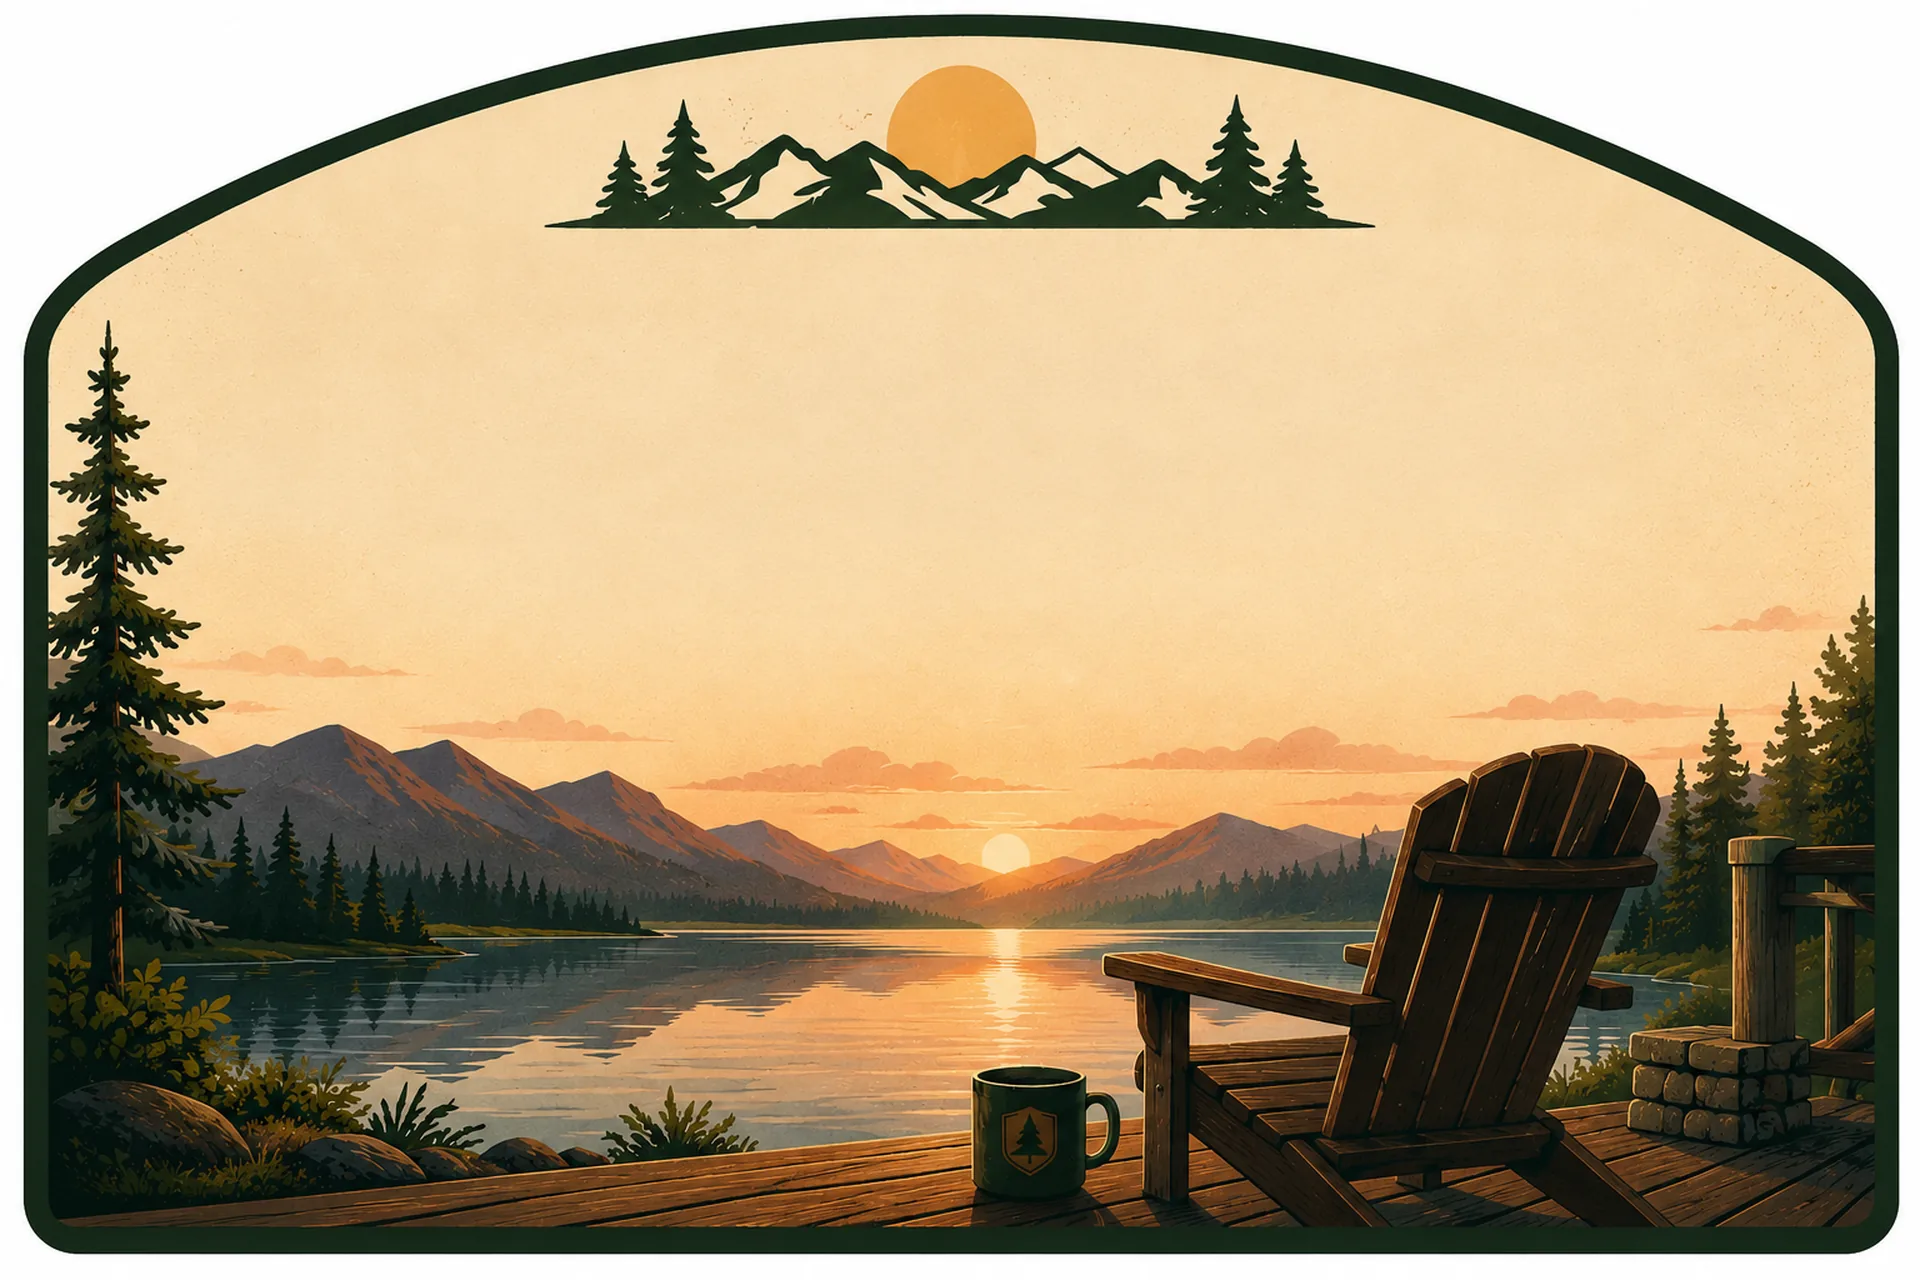
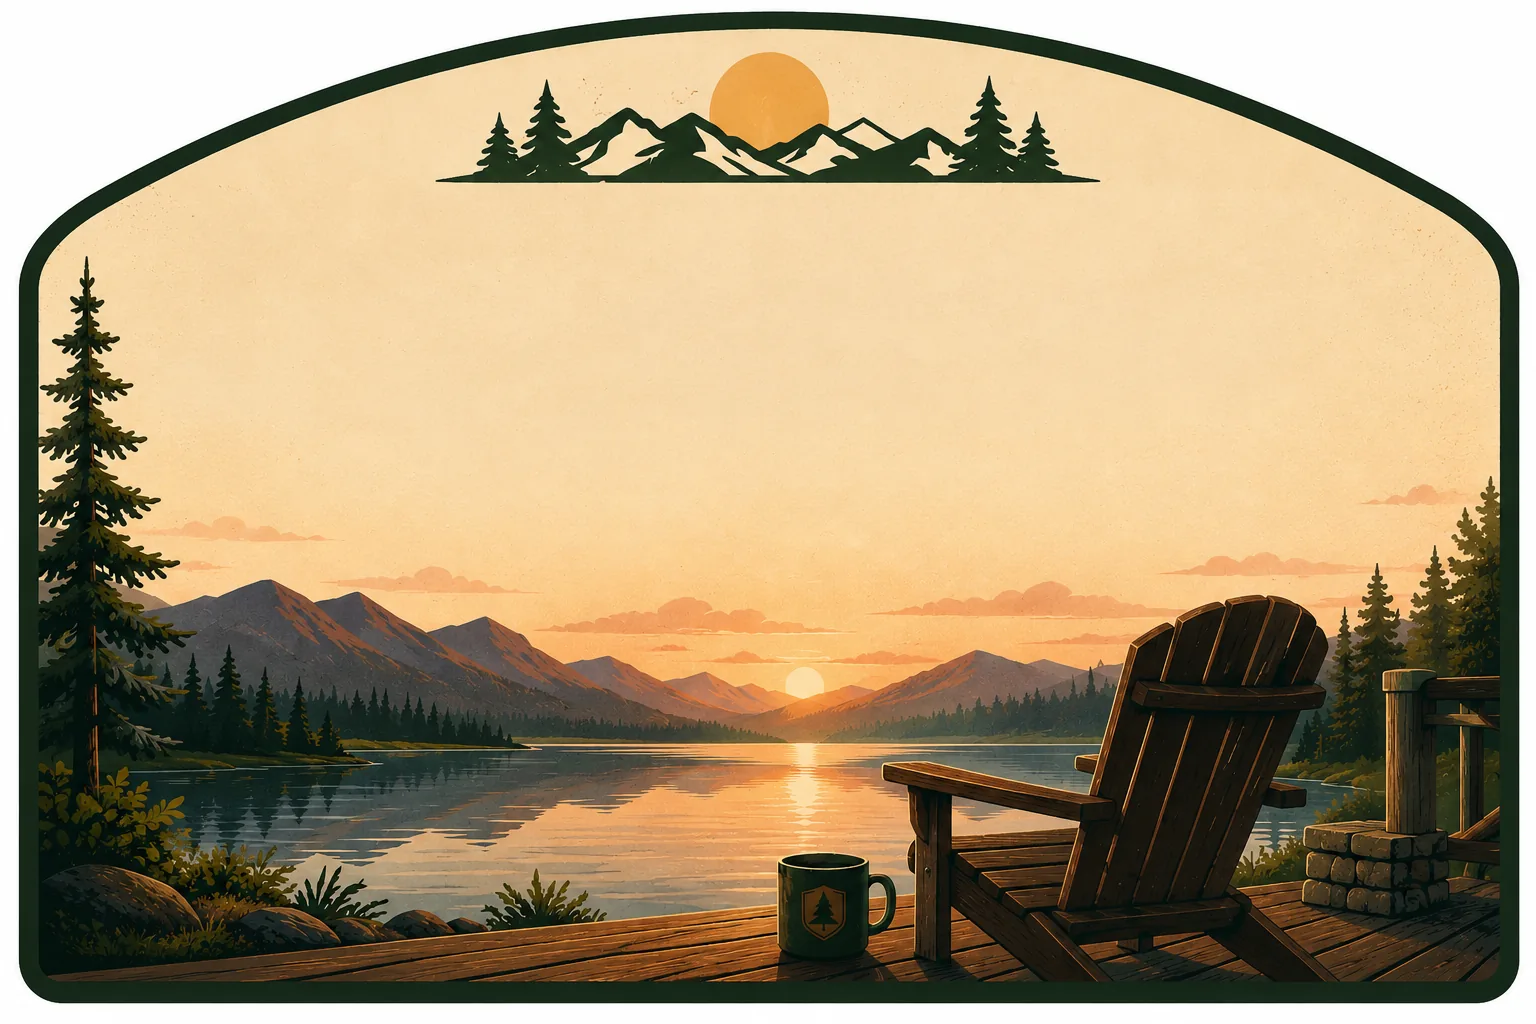
V2
V2

diff --git a/style.css b/style.css
@@ -1,114 +1,125 @@
+/* Retirement Countdown v2
+   Priorities:
+   1. Load fast.
+   2. Look good on iPhone.
+   3. Keep the countdown in the sky.
+*/
+
 :root {
-  --park-green: #173527;
-  --warm-cream: #f4dfb8;
-  --sunset-gold: #d99b48;
-  --shadow: rgba(10, 18, 12, 0.22);
+  --green: #173527;
+  --cream: #f4dfb8;
+  --shadow: rgba(12, 24, 16, 0.22);
 }
 
-* { box-sizing: border-box; }
-html, body { height: 100%; margin: 0; }
+* {
+  box-sizing: border-box;
+}
+
+html,
+body {
+  margin: 0;
+  min-height: 100%;
+}
 
 body {
-  min-height: 100%;
-  background: var(--warm-cream);
-  color: var(--park-green);
-  font-family: ui-serif, Georgia, Cambria, "Times New Roman", serif;
+  background: var(--cream);
+  color: var(--green);
 }
 
-.poster {
-  min-height: 100vh;
+.hero {
+  min-height: 100svh;
   width: 100%;
-  background-image: url("assets/lakeside-background.webp");
-  background-size: cover;
-  background-position: center center;
   position: relative;
   overflow: hidden;
+  background-image: url("assets/lakeside-background.webp");
+  background-size: cover;
+  background-position: center top;
+  background-repeat: no-repeat;
 }
 
-.countdown-card {
+.countdown {
   position: absolute;
-  top: clamp(4.5rem, 12vh, 7rem);
+  z-index: 1;
   left: 50%;
+  top: 8.5%;
   transform: translateX(-50%);
-  width: min(78vw, 980px);
-  padding: clamp(0.8rem, 1.6vw, 1.4rem) clamp(1rem, 2.4vw, 2rem);
+  width: min(86vw, 980px);
+  padding: clamp(0.8rem, 1.6vw, 1.25rem) clamp(1rem, 2.2vw, 2rem);
   text-align: center;
-  border: clamp(4px, 0.45vw, 8px) solid var(--park-green);
+  border: clamp(4px, 0.45vw, 7px) solid var(--green);
   border-radius: 999px;
-  background: rgba(244, 223, 184, 0.72);
-  box-shadow: 0 18px 50px var(--shadow);
-  backdrop-filter: blur(2px);
+  background: rgba(244, 223, 184, 0.78);
+  box-shadow: 0 16px 42px var(--shadow);
 }
 
-.eyebrow {
+.label {
   margin: 0 0 0.35rem;
-  font-family: ui-sans-serif, system-ui, -apple-system, BlinkMacSystemFont, "Segoe UI", sans-serif;
-  font-size: clamp(1rem, 2vw, 1.9rem);
-  font-weight: 800;
+  font-family: system-ui, -apple-system, BlinkMacSystemFont, "Segoe UI", sans-serif;
+  font-size: clamp(0.95rem, 2vw, 1.85rem);
+  font-weight: 900;
   letter-spacing: 0.22em;
   text-transform: uppercase;
 }
 
-.time-grid {
+.grid {
   display: grid;
   grid-template-columns: repeat(4, 1fr);
   gap: clamp(0.35rem, 1vw, 1rem);
-  align-items: center;
 }
 
-.time-grid div {
-  min-width: 0;
-}
-
-.time-grid span {
+.grid span {
   display: block;
-  font-family: ui-sans-serif, system-ui, -apple-system, BlinkMacSystemFont, "Segoe UI", sans-serif;
-  font-size: clamp(2rem, 6.5vw, 6.3rem);
+  font-family: system-ui, -apple-system, BlinkMacSystemFont, "Segoe UI", sans-serif;
+  font-size: clamp(2.2rem, 6.8vw, 6.4rem);
   line-height: 0.9;
   font-weight: 900;
-  letter-spacing: -0.05em;
+  letter-spacing: -0.055em;
 }
 
-.time-grid small {
+.grid small {
   display: block;
   margin-top: 0.35rem;
-  font-family: ui-sans-serif, system-ui, -apple-system, BlinkMacSystemFont, "Segoe UI", sans-serif;
-  font-size: clamp(0.65rem, 1.15vw, 1rem);
-  font-weight: 800;
-  letter-spacing: 0.18em;
+  font-family: system-ui, -apple-system, BlinkMacSystemFont, "Segoe UI", sans-serif;
+  font-size: clamp(0.62rem, 1.1vw, 0.95rem);
+  font-weight: 900;
+  letter-spacing: 0.16em;
   text-transform: uppercase;
 }
 
-.date-line {
+.date {
   margin: 0.55rem 0 0;
-  font-size: clamp(0.85rem, 1.4vw, 1.25rem);
+  font-family: Georgia, Cambria, "Times New Roman", serif;
+  font-size: clamp(0.85rem, 1.35vw, 1.2rem);
   font-weight: 700;
   letter-spacing: 0.08em;
 }
 
-@media (max-width: 720px) {
-  .poster {
-    background-position: center 18%;
-  }
-
-  .countdown-card {
-    top: 5.5rem;
-    width: 88vw;
-    padding: 0.9rem 1rem;
-    border-radius: 1.25rem;
-    background: rgba(244, 223, 184, 0.78);
-  }
-
-  .time-grid {
-    grid-template-columns: repeat(2, 1fr);
-    row-gap: 0.8rem;
-  }
-}
-
 .arrived {
-  font-family: ui-sans-serif, system-ui, -apple-system, BlinkMacSystemFont, "Segoe UI", sans-serif;
+  font-family: system-ui, -apple-system, BlinkMacSystemFont, "Segoe UI", sans-serif;
   font-size: clamp(2rem, 5vw, 5rem);
   line-height: 1;
   font-weight: 900;
   letter-spacing: -0.04em;
+}
+
+/* iPhone / small screens */
+@media (max-width: 720px) {
+  .hero {
+    min-height: 100svh;
+    background-size: auto 100svh;
+    background-position: center top;
+  }
+
+  .countdown {
+    top: 6.2%;
+    width: 88vw;
+    padding: 0.85rem 0.9rem;
+    border-radius: 1.25rem;
+    background: rgba(244, 223, 184, 0.82);
+  }
+
+  .grid {
+    grid-template-columns: repeat(2, 1fr);
+    row-gap: 0.75rem;
+  }
 }

diff --git a/countdown.js b/countdown.js
@@ -1,44 +1,38 @@
-// Terminal Leave begins at midnight Central Time on 17 Sep 2028.
-// September is daylight time in America/Chicago, so midnight CT = 05:00 UTC.
-const target = new Date('2028-09-17T05:00:00Z');
+// Terminal Leave Countdown
+// Target: 17 September 2028 at midnight, Central Time.
 
-const parts = {
-  days: document.getElementById('days'),
-  hours: document.getElementById('hours'),
-  minutes: document.getElementById('minutes'),
-  seconds: document.getElementById('seconds'),
-  card: document.querySelector('.countdown-card')
-};
+const target = new Date("2028-09-17T00:00:00-05:00");
 
-function pad(number) {
-  return String(number).padStart(2, '0');
+const daysEl = document.getElementById("days");
+const hoursEl = document.getElementById("hours");
+const minutesEl = document.getElementById("minutes");
+const secondsEl = document.getElementById("seconds");
+const card = document.querySelector(".countdown");
+
+function pad(value) {
+  return String(value).padStart(2, "0");
 }
 
 function updateCountdown() {
   const now = new Date();
-  const remaining = target - now;
+  const difference = target - now;
 
-  if (remaining <= 0) {
-    parts.card.innerHTML = `
-      <p class="eyebrow">Terminal Leave</p>
-      <div class="arrived">Enjoy the next adventure.</div>
-      <p class="date-line">17 September 2028</p>
-    `;
-    clearInterval(timer);
+  if (difference <= 0) {
+    card.innerHTML = '<p class="label">Terminal Leave</p><div class="arrived">The next chapter starts now.</div>';
     return;
   }
 
-  const totalSeconds = Math.floor(remaining / 1000);
+  const totalSeconds = Math.floor(difference / 1000);
   const days = Math.floor(totalSeconds / 86400);
   const hours = Math.floor((totalSeconds % 86400) / 3600);
   const minutes = Math.floor((totalSeconds % 3600) / 60);
   const seconds = totalSeconds % 60;
 
-  parts.days.textContent = days.toLocaleString();
-  parts.hours.textContent = pad(hours);
-  parts.minutes.textContent = pad(minutes);
-  parts.seconds.textContent = pad(seconds);
+  daysEl.textContent = days;
+  hoursEl.textContent = pad(hours);
+  minutesEl.textContent = pad(minutes);
+  secondsEl.textContent = pad(seconds);
 }
 
-const timer = setInterval(updateCountdown, 1000);
 updateCountdown();
+setInterval(updateCountdown, 1000);

diff --git a/index.html b/index.html
@@ -1,26 +1,41 @@
 <!doctype html>
 <html lang="en">
 <head>
-  <meta charset="utf-8" />
-  <meta name="viewport" content="width=device-width, initial-scale=1" />
+  <meta charset="utf-8">
+  <meta name="viewport" content="width=device-width, initial-scale=1">
   <title>Terminal Leave Countdown</title>
-  <meta name="description" content="A simple countdown to terminal leave." />
-  <link rel="preload" href="assets/lakeside-background.webp" as="image" />
-  <link rel="stylesheet" href="style.css" />
+  <meta name="description" content="Countdown to terminal leave.">
+  <link rel="preload" href="assets/lakeside-background.webp" as="image">
+  <link rel="stylesheet" href="style.css">
 </head>
 <body>
-  <main class="poster" aria-label="Terminal Leave countdown">
-    <section class="countdown-card" aria-live="polite">
-      <p class="eyebrow">Terminal Leave</p>
-      <div class="time-grid" id="countdown">
-        <div><span id="days">---</span><small>Days</small></div>
-        <div><span id="hours">--</span><small>Hours</small></div>
-        <div><span id="minutes">--</span><small>Minutes</small></div>
-        <div><span id="seconds">--</span><small>Seconds</small></div>
+  <main class="hero" aria-label="Terminal Leave countdown">
+    <section class="countdown" aria-live="polite">
+      <p class="label">Terminal Leave</p>
+
+      <div class="grid" id="countdown">
+        <div>
+          <span id="days">---</span>
+          <small>Days</small>
+        </div>
+        <div>
+          <span id="hours">--</span>
+          <small>Hours</small>
+        </div>
+        <div>
+          <span id="minutes">--</span>
+          <small>Minutes</small>
+        </div>
+        <div>
+          <span id="seconds">--</span>
+          <small>Seconds</small>
+        </div>
       </div>
-      <p class="date-line">17 September 2028</p>
+
+      <p class="date">17 September 2028</p>
     </section>
   </main>
+
   <script src="countdown.js"></script>
 </body>
 </html>

diff --git a/README.md b/README.md
@@ -1,13 +1,22 @@
-# Terminal Leave Countdown
+# Retirement Countdown
 
-A tiny static website for ryanrager.com.
+A tiny static website for Ryan's terminal leave countdown.
 
-Target date: 17 September 2028 at 00:00 America/Chicago.
+## Files
 
-Files:
-- `index.html`
-- `style.css`
-- `countdown.js`
-- `assets/lakeside-background.webp`
+- `index.html` — page structure
+- `style.css` — layout and visual design
+- `countdown.js` — countdown logic
+- `assets/lakeside-background.webp` — optimized background image
 
-No external scripts, no frameworks, no trackers.
+## GitHub Pages setup
+
+Use:
+
+- Source: Deploy from a branch
+- Branch: main
+- Folder: / (root)
+
+## Target date
+
+Terminal Leave: 17 September 2028, midnight Central Time.